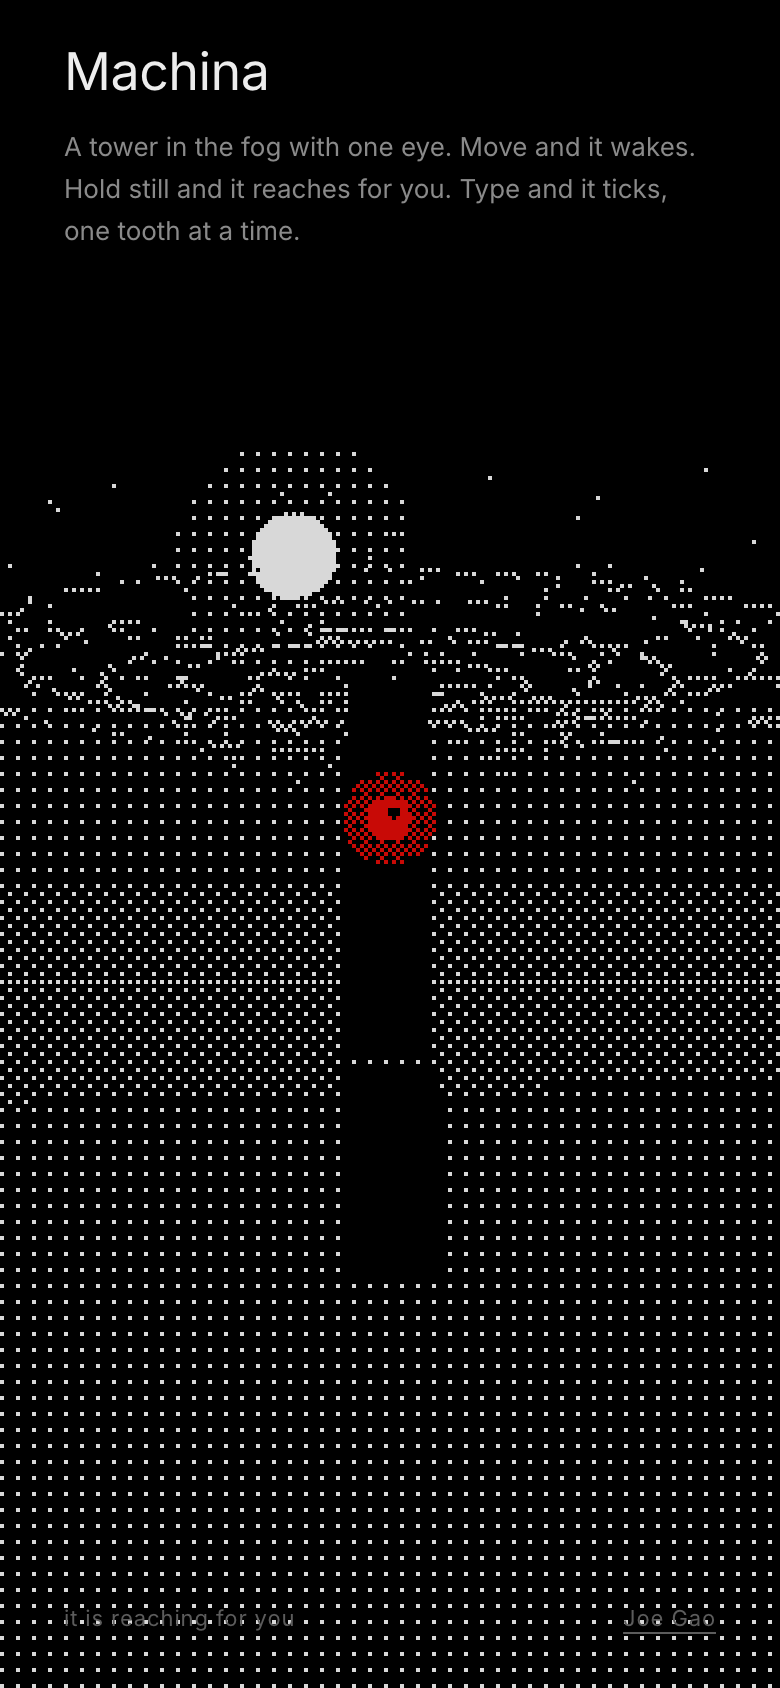
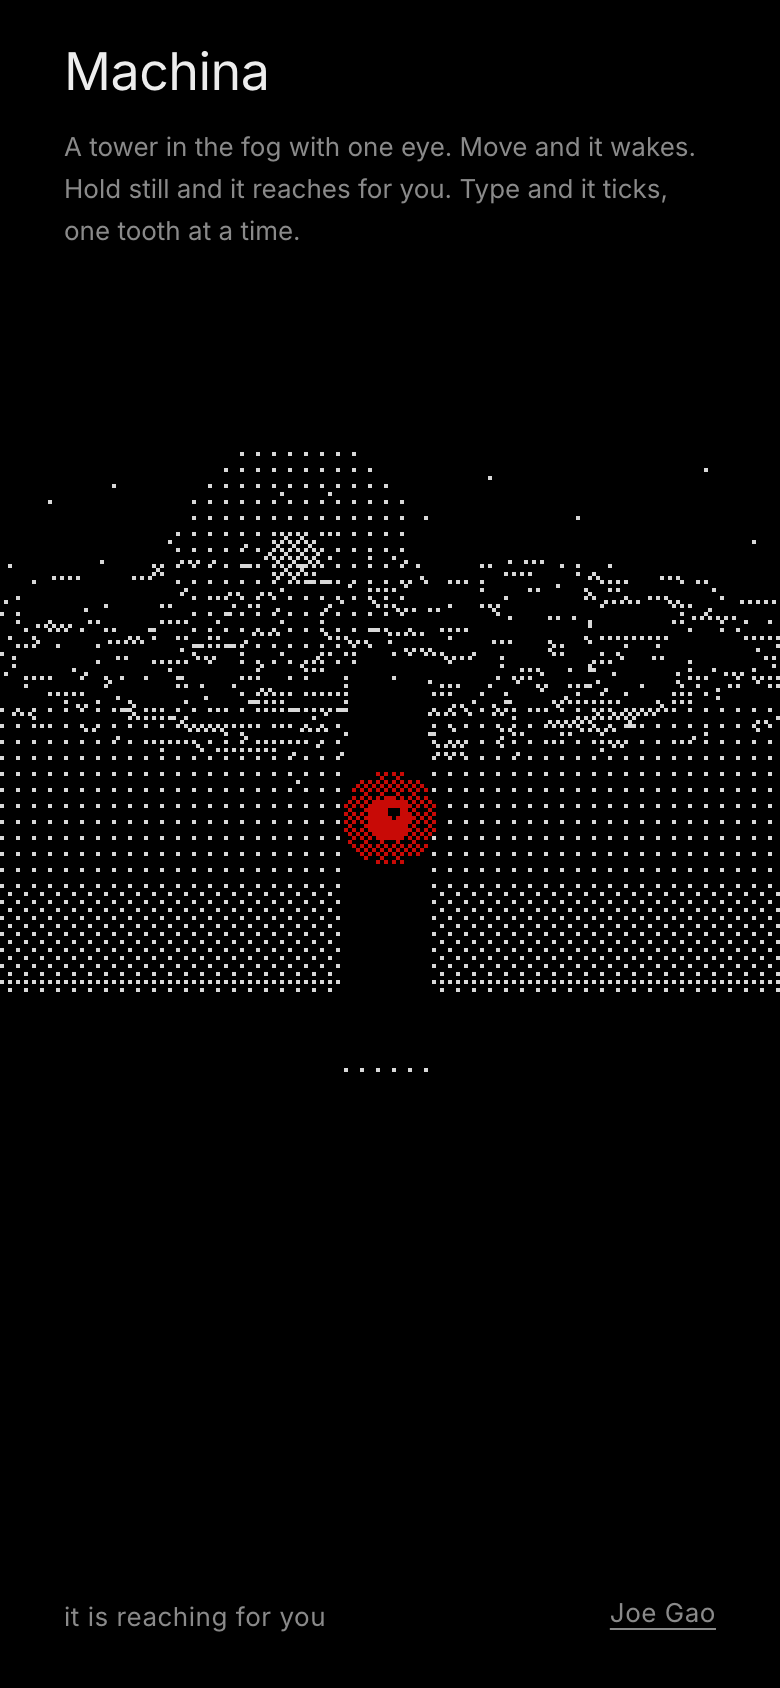
v1.1: a horizon instead of a dot carpet, words kept clear of the dither
From an independent design review (2.4/5 on v1):
- fog colour was linear 0.03 (about 0.19 on screen), so ground and fog
  dithered into an even carpet; now near-black with an unlit ground, the
  sky plane carries a narrow horizon glow behind the tower
- moon dimmer and smaller so the eye is the brightest point; rim light
  on the tower
- the dither fades out around the header and along the bottom; status
  and footer at 13px #8A8A8A, footer link 44px tall
- gears: 12-24 teeth, deeper, so one tooth step is visible; rings stop
  drifting and lean toward the pointer while it watches; each key also
  lights a seam down the tower face for 0.6 s

diff --git a/machina.html b/machina.html
@@ -31,9 +31,9 @@ canvas{position:fixed;inset:0;width:100%;height:100dvh;display:block;touch-actio
 header{position:fixed;top:28px;left:max(32px,env(safe-area-inset-left));z-index:2;pointer-events:none;max-width:min(440px,calc(100% - 64px))}
 h1{font-weight:400;font-size:30px;letter-spacing:-.01em;margin:0 0 12px;line-height:1.1}
 .caption{margin:0;font-size:13px;line-height:1.62;color:var(--dim);text-wrap:pretty}
-.status{position:fixed;left:max(32px,env(safe-area-inset-left));bottom:max(28px,env(safe-area-inset-bottom));z-index:2;margin:0;font-size:11px;letter-spacing:.04em;color:var(--faint);transition:opacity .4s var(--ease-out)}
-footer{position:fixed;right:max(32px,env(safe-area-inset-right));bottom:max(28px,env(safe-area-inset-bottom));z-index:2;font-size:11px;letter-spacing:.04em}
-footer a{color:var(--faint);text-decoration:underline;text-underline-offset:3px;transition:color .2s ease}
+.status{position:fixed;left:max(32px,env(safe-area-inset-left));bottom:max(28px,env(safe-area-inset-bottom));z-index:2;margin:0;font-size:13px;letter-spacing:.02em;color:var(--dim);transition:opacity .4s var(--ease-out)}
+footer{position:fixed;right:max(32px,env(safe-area-inset-right));bottom:max(16px,env(safe-area-inset-bottom));z-index:2;font-size:13px;letter-spacing:.02em}
+footer a{display:inline-block;padding:12px 0;line-height:20px;color:var(--dim);text-decoration:underline;text-underline-offset:3px;transition:color .2s ease}
 footer a:hover{color:var(--fg)}
 footer a:focus-visible{outline:1px solid var(--fg);outline-offset:3px}
 .fallback{position:fixed;inset:auto 32px 72px 32px;font-size:13px;color:var(--dim);max-width:440px}
@@ -72,9 +72,9 @@ renderer.domElement.setAttribute('role', 'img')
 document.body.prepend(renderer.domElement)
 
 // ---------- scene ----------
-const FOG = new THREE.Color(0.075, 0.075, 0.075)
+const FOG = new THREE.Color(0.006, 0.006, 0.006)  // linear; shows as ~0.07 after sRGB
 const scene = new THREE.Scene()
-scene.fog = new THREE.FogExp2(FOG, 0.028)
+scene.fog = new THREE.FogExp2(FOG, 0.045)
 scene.background = new THREE.Color(0.012, 0.012, 0.012)
 
 const camera = new THREE.PerspectiveCamera(40, 1, 0.1, 200)
@@ -83,10 +83,12 @@ camera.position.copy(camHome)
 
 const moonLight = new THREE.DirectionalLight(0xffffff, 2.4)
 moonLight.position.set(-14, 22, -30)
-scene.add(moonLight, new THREE.AmbientLight(0xffffff, 0.18))
+const rim = new THREE.DirectionalLight(0xffffff, 3.2)
+rim.position.set(-30, 30, 10)
+scene.add(moonLight, rim, new THREE.AmbientLight(0xffffff, 0.18))
 
 // moon: the one white disc
-const moon = new THREE.Mesh(new THREE.CircleGeometry(3.2, 64), new THREE.MeshBasicMaterial({ color: 0xffffff, fog: false }))
+const moon = new THREE.Mesh(new THREE.CircleGeometry(2.0, 64), new THREE.MeshBasicMaterial({ color: 0xa0a0a0, fog: false }))
 moon.position.set(-30, 34, -85)
 scene.add(moon)
 const halo = new THREE.Mesh(new THREE.CircleGeometry(9, 64), new THREE.MeshBasicMaterial({ color: 0xffffff, transparent: true, opacity: 0.05, fog: false, depthWrite: false }))
@@ -106,13 +108,13 @@ const sky = new THREE.Mesh(skyGeo, new THREE.MeshBasicMaterial({ vertexColors: t
 sky.position.set(0, 60, -90)
 scene.add(sky)
 
-// ground
-const ground = new THREE.Mesh(new THREE.PlaneGeometry(400, 400), new THREE.MeshStandardMaterial({ color: 0x1c1c1c, roughness: 1 }))
+// ground: unlit, so only the fog lights it; the horizon glows and the foreground stays black
+const ground = new THREE.Mesh(new THREE.PlaneGeometry(400, 400), new THREE.MeshBasicMaterial({ color: 0x000000 }))
 ground.rotation.x = -Math.PI / 2
 scene.add(ground)
 
 // tower: a stack of monolith segments; it grows one segment each long stretch of attention
-const towerMat = new THREE.MeshStandardMaterial({ color: 0x050505, roughness: 0.35, metalness: 0.6, fog: false })
+const towerMat = new THREE.MeshStandardMaterial({ color: 0x050505, roughness: 0.7, metalness: 0.6, fog: false })
 const tower = new THREE.Group()
 scene.add(tower)
 const SEG_H = 3.1, SEG_GAP = 0.14
@@ -141,16 +143,20 @@ const glow = new THREE.Mesh(new THREE.CircleGeometry(0.75, 48), new THREE.MeshBa
 glow.position.z = -0.001
 eye.add(glow, iris, pupil, lid)
 scene.add(eye)
+const seam = new THREE.Mesh(new THREE.PlaneGeometry(0.12, EYE_Y - 0.45), new THREE.MeshBasicMaterial({ color: 0xffffff, transparent: true, opacity: 0, fog: false, depthWrite: false }))
+seam.position.set(0, (EYE_Y - 0.45) / 2, 0.57)
+scene.add(seam)
+let seamLit = 0
 
 // the mechanical cloud: rings of gear teeth, circuit traces between them, and a haze of points
 const cloud = new THREE.Group()
 scene.add(cloud)
 const RINGS = [
-  { r: 3.0, teeth: 24, y: 0.0, tilt: 0.0 },
-  { r: 4.6, teeth: 36, y: 0.6, tilt: 0.05 },
-  { r: 6.3, teeth: 48, y: -0.4, tilt: -0.04 },
-  { r: 8.1, teeth: 60, y: 0.9, tilt: 0.07 },
-  { r: 10.2, teeth: 72, y: -0.2, tilt: -0.06 },
+  { r: 3.0, teeth: 12, y: 0.0, tilt: 0.0 },
+  { r: 4.6, teeth: 16, y: 0.6, tilt: 0.05 },
+  { r: 6.3, teeth: 20, y: -0.4, tilt: -0.04 },
+  { r: 8.1, teeth: 24, y: 0.9, tilt: 0.07 },
+  { r: 10.2, teeth: 24, y: -0.2, tilt: -0.06 },
 ]
 const lineMat = new THREE.LineBasicMaterial({ color: 0xffffff, transparent: true, opacity: 0.95, fog: false })
 const rings = RINGS.map((d, k) => {
@@ -158,14 +164,14 @@ const rings = RINGS.map((d, k) => {
   const n = d.teeth * 4
   for (let i = 0; i <= n; i++) {
     const a = (i / n) * Math.PI * 2
-    const tooth = Math.floor(i / 2) % 2 ? 0.22 : 0
+    const tooth = Math.floor(i / 2) % 2 ? 0.6 : 0
     pts.push(new THREE.Vector3(Math.cos(a) * (d.r + tooth), 0, Math.sin(a) * (d.r + tooth)))
   }
   const g = new THREE.Group()
   g.add(new THREE.Line(new THREE.BufferGeometry().setFromPoints(pts), lineMat))
   // spokes every few teeth: hand-drawn feeling, not a wheel
   const spokes = []
-  for (let i = 0; i < d.teeth; i += 6) {
+  for (let i = 0; i < d.teeth; i += 3) {
     const a = (i / d.teeth) * Math.PI * 2
     spokes.push(new THREE.Vector3(Math.cos(a) * (d.r - 0.5), 0, Math.sin(a) * (d.r - 0.5)), new THREE.Vector3(Math.cos(a) * d.r, 0, Math.sin(a) * d.r))
   }
@@ -215,11 +221,13 @@ const post = new THREE.ShaderMaterial({
     tScene: { value: rt.texture }, res: { value: new THREE.Vector2(1, 1) }, cell: { value: 2 },
     ink: { value: new THREE.Color(0xededed) }, paper: { value: new THREE.Color(0x000000) },
     accent: { value: new THREE.Color(0xe5372b) }, gain: { value: 1.0 },
+    quiet: { value: new THREE.Vector4(0, 0, 0, 0) }, bottomQuiet: { value: 0 }, feather: { value: 24 },
   },
   vertexShader: 'varying vec2 vUv; void main(){ vUv = uv; gl_Position = vec4(position.xy, 0., 1.); }',
   fragmentShader: `
     uniform sampler2D tScene; uniform vec2 res; uniform float cell, gain;
     uniform vec3 ink, paper, accent;
+    uniform vec4 quiet; uniform float bottomQuiet, feather;
     float bayer4(vec2 p){
       int x = int(mod(p.x, 4.)), y = int(mod(p.y, 4.));
       int i = x + y * 4;
@@ -233,6 +241,9 @@ const post = new THREE.ShaderMaterial({
       float redness = col.r - max(col.g, col.b);
       float l = pow(dot(col, vec3(.299, .587, .114)) * gain, .9);
       float t = bayer4(c);
+      vec2 q = gl_FragCoord.xy;
+      vec2 dq = max(max(quiet.xy - q, q - quiet.zw), 0.);
+      l *= smoothstep(0., feather, length(dq)) * smoothstep(bottomQuiet, bottomQuiet + feather, q.y);
       vec3 o = mix(paper, ink, step(t, l));
       if (redness > .04) o = mix(o, accent, step(t, redness * 1.6));
       gl_FragColor = vec4(o, 1.);
@@ -256,6 +267,11 @@ function resize() {
   rt.setSize(Math.round(w * pr), Math.round(h * pr))
   post.uniforms.res.value.set(w * pr, h * pr)
   post.uniforms.cell.value = Math.max(2, Math.round(2 * pr))
+  // keep the dither off the words: the header box plus a feather, and a band along the bottom (gl y runs upward)
+  const hb = document.querySelector('header').getBoundingClientRect()
+  post.uniforms.quiet.value.set((hb.left - 16) * pr, (h - hb.bottom - 16) * pr, (hb.right + 16) * pr, (h - hb.top + 16) * pr)
+  post.uniforms.bottomQuiet.value = 56 * pr
+  post.uniforms.feather.value = 24 * pr
   camera.aspect = w / h
   moon.position.x = w / h < 0.8 ? -9 : -30
   halo.position.x = moon.position.x
@@ -286,6 +302,7 @@ function tick() {
   S.ticks++
   S.attention = Math.min(1, S.attention + 0.25)
   for (const g of rings) g.userData.target += g.userData.step * g.userData.dir
+  seamLit = 1
   const tr = traces[S.nextTrace++ % traces.length]
   tr.userData.lit = 1
 }
@@ -325,10 +342,11 @@ function frame(now) {
   cloud.scale.setScalar(cloud.scale.x + (squeeze - cloud.scale.x) * Math.min(1, dt * 0.8))
   rings.forEach((g, k) => {
     const u = g.userData
-    u.target += u.drift * dt * speed * (1 - S.reach * 0.9)
+    u.target += u.drift * dt * speed * (1 - S.reach * 0.9) * (1 - S.open * 0.85)
     u.angle += (u.target - u.angle) * Math.min(1, dt * 14)
     const flatten = 1 - S.reach
-    g.rotation.set(u.tilt * flatten, u.angle, u.tilt * 0.6 * flatten)
+    const lean = S.open * flatten * 0.22
+    g.rotation.set(u.tilt * flatten - pointer.y * lean, u.angle, u.tilt * 0.6 * flatten - pointer.x * lean)
     g.position.y = u.y * flatten
   })
   for (const tr of traces) {
@@ -336,6 +354,8 @@ function frame(now) {
     tr.material.opacity = 0.18 + tr.userData.lit * 0.82 + S.reach * 0.25
   }
   haze.rotation.y += dt * 0.01 * speed
+  seamLit = Math.max(0, seamLit - dt / 0.6)
+  seam.material.opacity = seamLit
 
   // eye: opens, finds you, and tracks
   const ey = Math.max(0.03, S.open)
